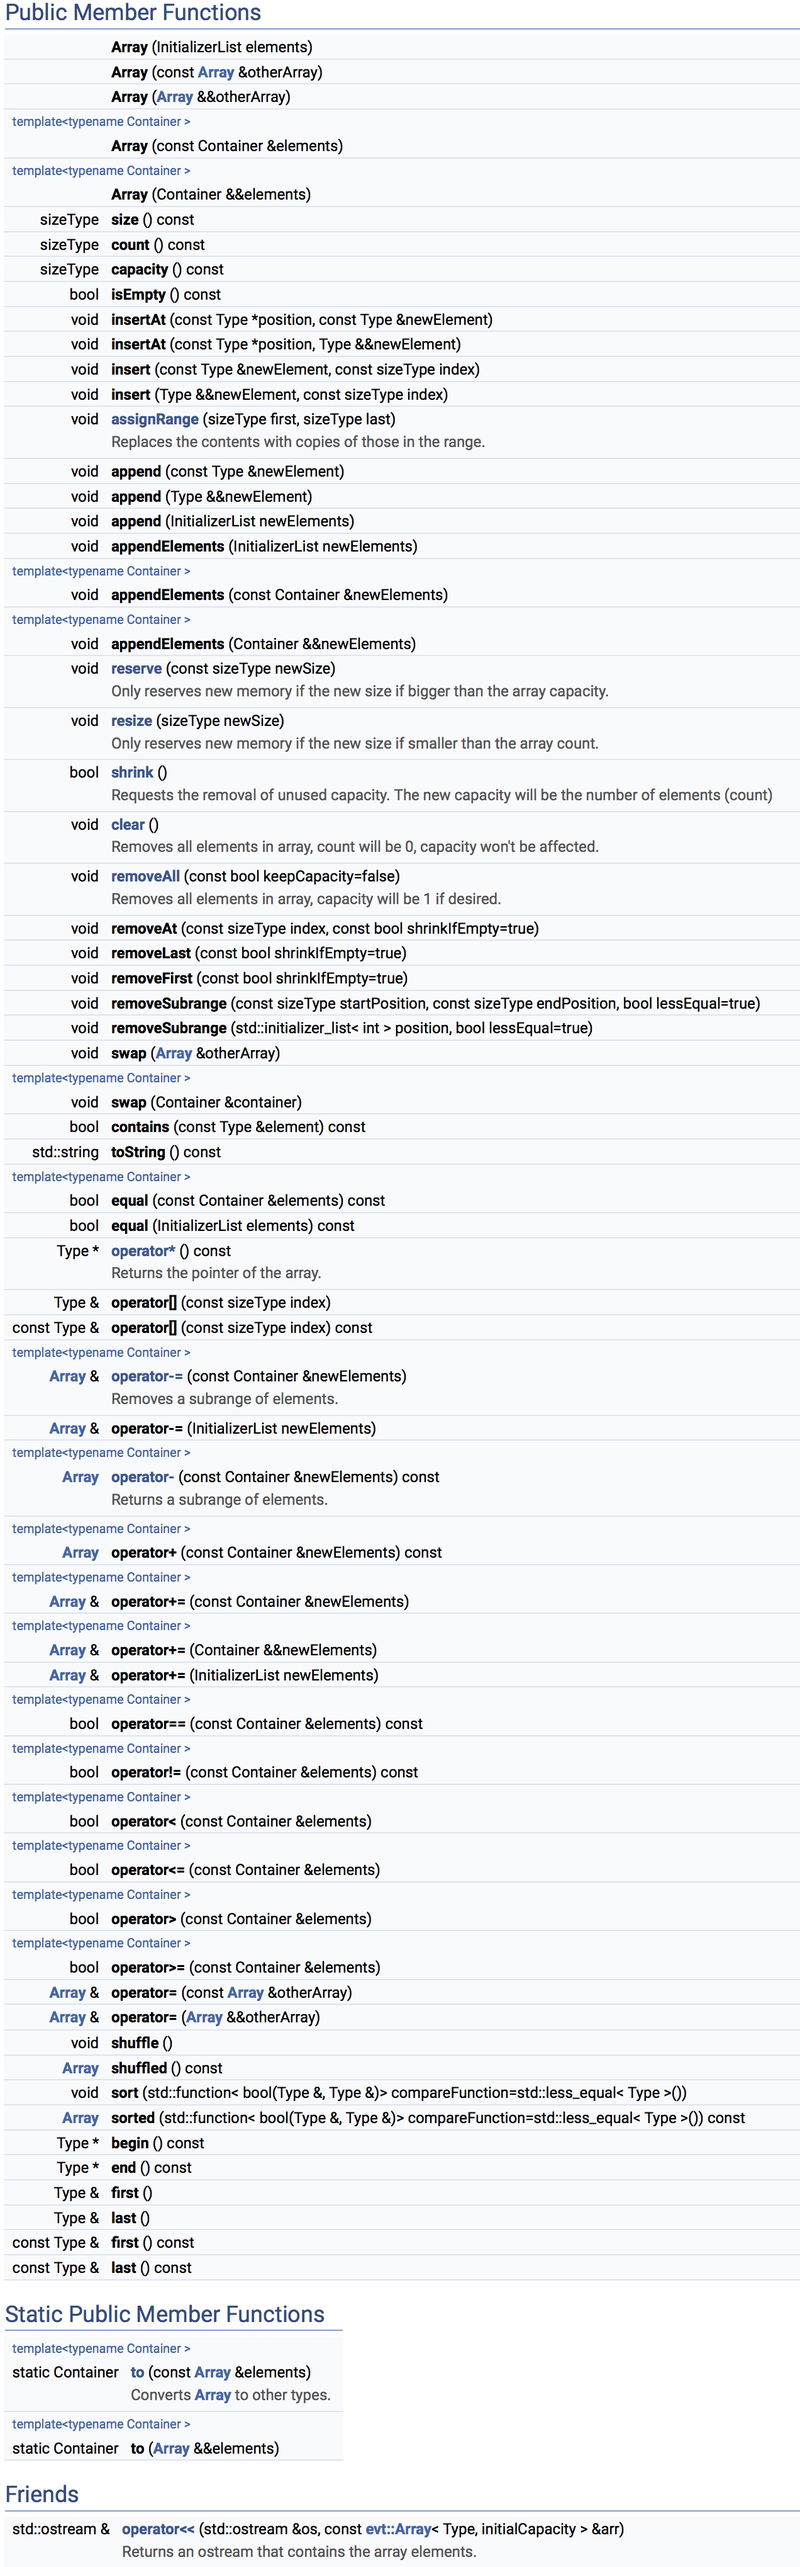
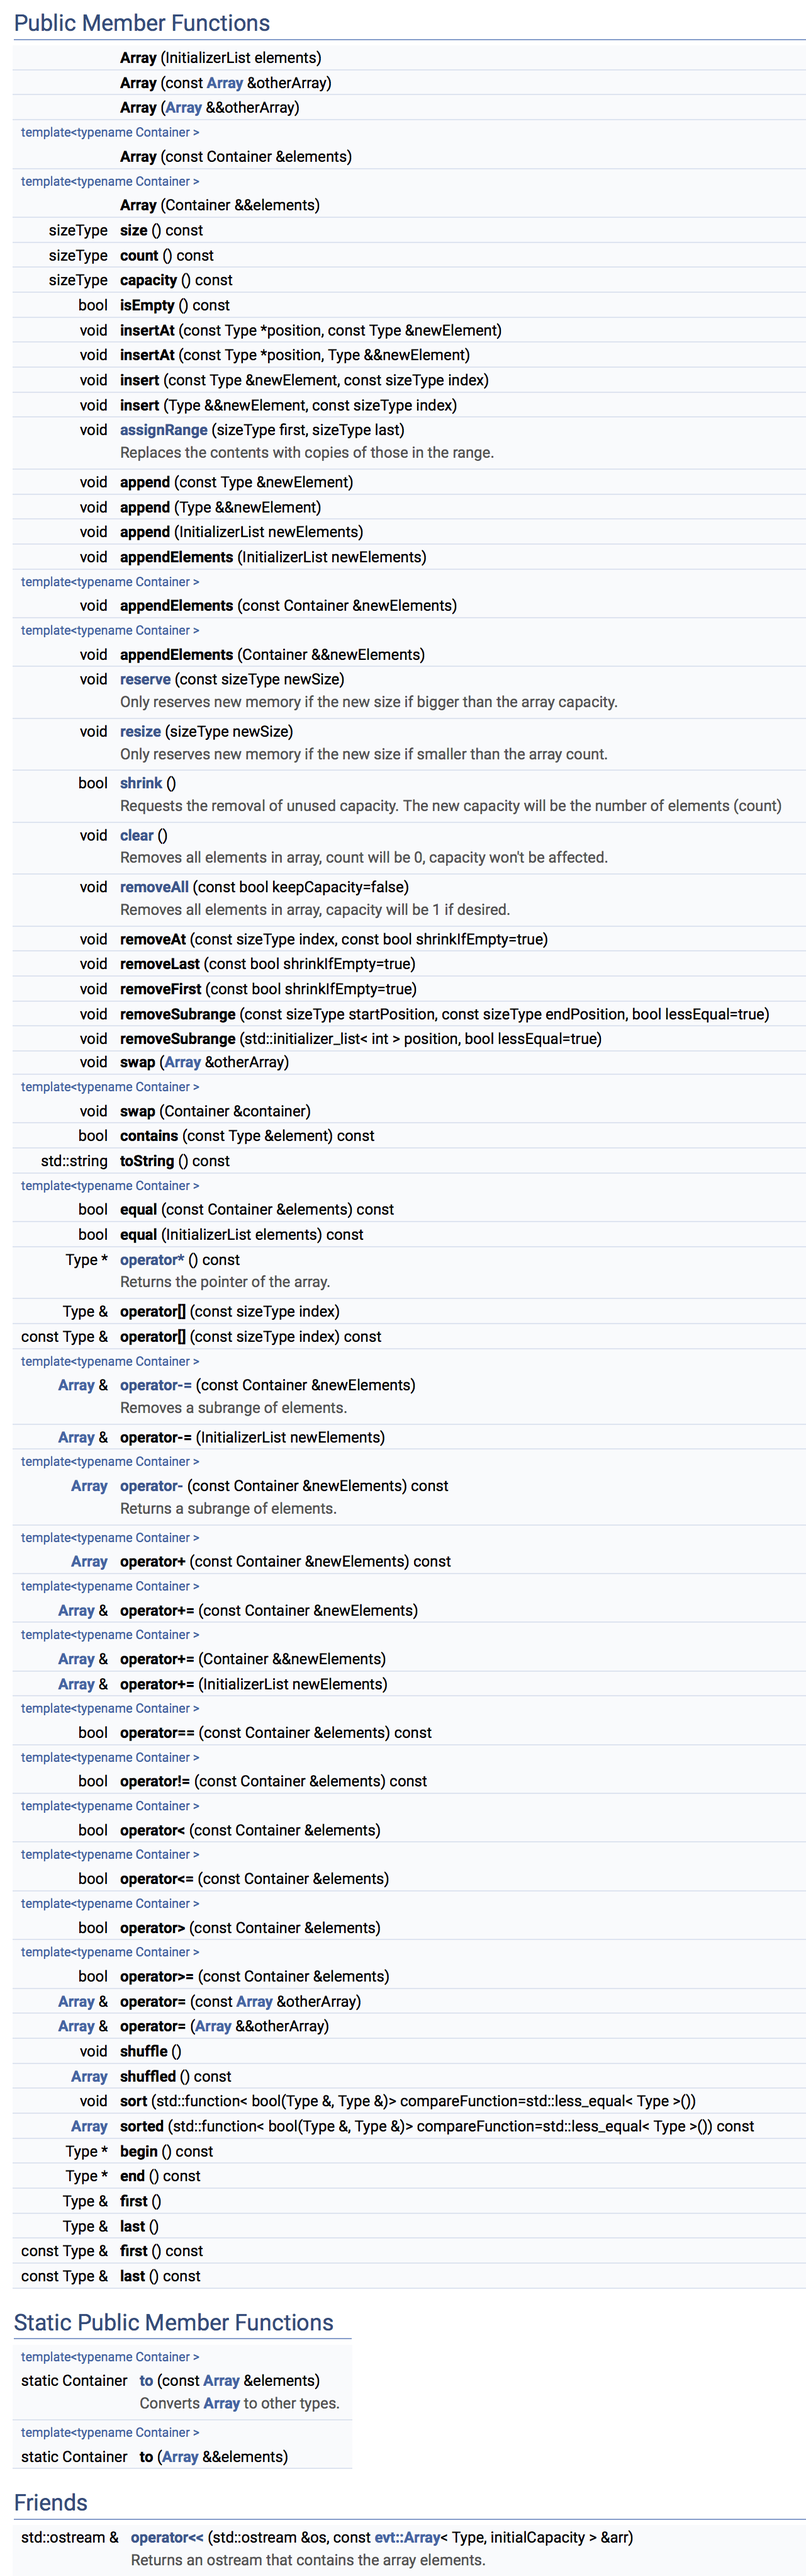
v1.18: - Added find() and findAll() methods

Changed region(s): [[0.0, 0.0, 0.9505, 0.9968]]

diff --git a/Array/Array.hpp b/Array/Array.hpp
@@ -39,7 +39,7 @@ namespace evt {
 		
 		// MARK: - Private Functions
 		
-		inline double sizeOfArrayInMB(double currentCapacity) {
+		inline double sizeOfArrayInMB(const double currentCapacity) {
 			return (sizeof(Type)*(currentCapacity)) / 1000000;
 		}
 
@@ -55,7 +55,7 @@ namespace evt {
 			capacity_ = newSize;
 		}
 		
-		inline auto newArrayOfSize(sizeType newSize) {
+		inline auto newArrayOfSize(const sizeType newSize) {
 			
 			#if (__cplusplus >= 201400) && use_make_unique
 				auto newValues { std::make_unique<Type[]>(newSize) };
@@ -67,7 +67,7 @@ namespace evt {
 		}
 		
 		/// Resizes the array to a given size
-		inline void resizeValuesToSize(sizeType newSize, bool move = 0) {
+		inline void resizeValuesToSize(const sizeType newSize, bool move = 0) {
 	
 			auto newValues = newArrayOfSize(newSize);
 			
@@ -379,7 +379,7 @@ namespace evt {
 		}
 		
 		/// Only reserves new memory if the new size if smaller than the array count
-		void resize(sizeType newSize) {
+		void resize(const sizeType newSize) {
 			
 			if (newSize == 0 && count_ > 0) {
 				removeAll();
@@ -503,6 +503,27 @@ namespace evt {
 				if (element == elm) { return true; }
 			} 
 			return false;
+		}
+		
+		/// Returns the index of the first ocurrence of the element. Last position if the element isn't found
+		sizeType find(const Type& element) const {
+			return (std::find(&values[0], &values[count_], element) - &values[0]);
+		}
+		
+		/// Returns an Array with all the ocurrences of the element
+		Array<sizeType> findAll(const Type& element) const {
+			
+			Array<sizeType> positions;
+			sizeType position = 0;
+			
+			for (const auto& value: (*this)) {
+				if (element == value) {
+					positions.append(position);
+				}
+				position += 1;
+			}
+			
+			return positions;
 		}
 		
 		std::string toString() const {

diff --git a/Array/main.cpp b/Array/main.cpp
@@ -7,7 +7,10 @@ using namespace evt;
 
 int main() {
 
-	Array<int> testArray1 {1,2,3,4,5,6,7,8,9,10,11,12};
+	Array<int> testArray1 {1,2,3,4,5,6,7,8,9,10,1,12};
+	
+	cout << testArray1.find(13) << endl;
+	cout << testArray1.findAll(13) << endl;
 
 	cout << testArray1 << ' ' << testArray1.count() << ' ' << testArray1.capacity() << endl;
 	

diff --git a/README.md b/README.md
@@ -1,7 +1,7 @@
 # **Array**.hpp
 
 [![Build Status](https://travis-ci.org/illescasDaniel/Array.hpp.svg?branch=master)](https://travis-ci.org/illescasDaniel/Array.hpp)
-[![Version](https://img.shields.io/badge/version-v1.17-green.svg)](https://github.com/illescasDaniel/Array.hpp/releases)
+[![Version](https://img.shields.io/badge/version-v1.18-green.svg)](https://github.com/illescasDaniel/Array.hpp/releases)
 [![license](https://img.shields.io/github/license/mashape/apistatus.svg?maxAge=2592000)](https://github.com/illescasDaniel/Array.hpp/blob/master/LICENCE) 
 
 Container to store data, similar to `std::vector` but with better syntax and performance.  
